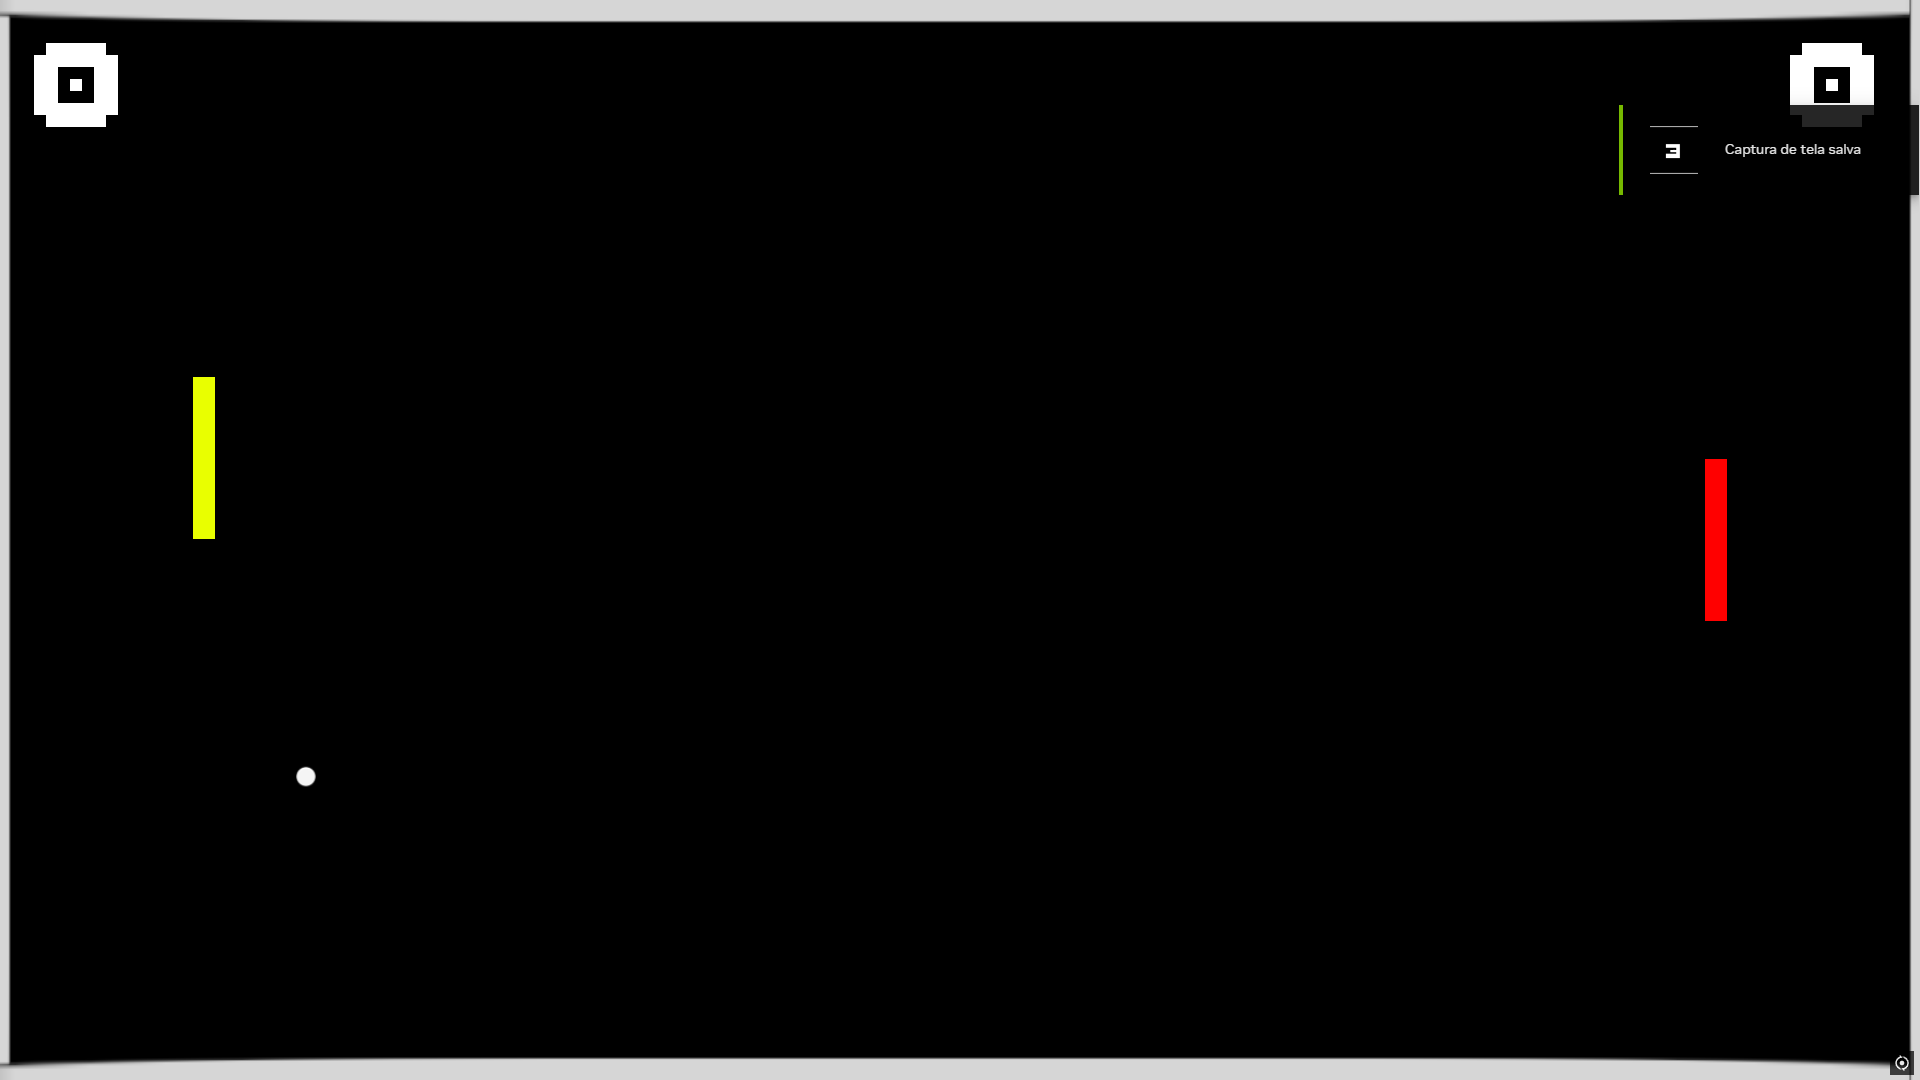
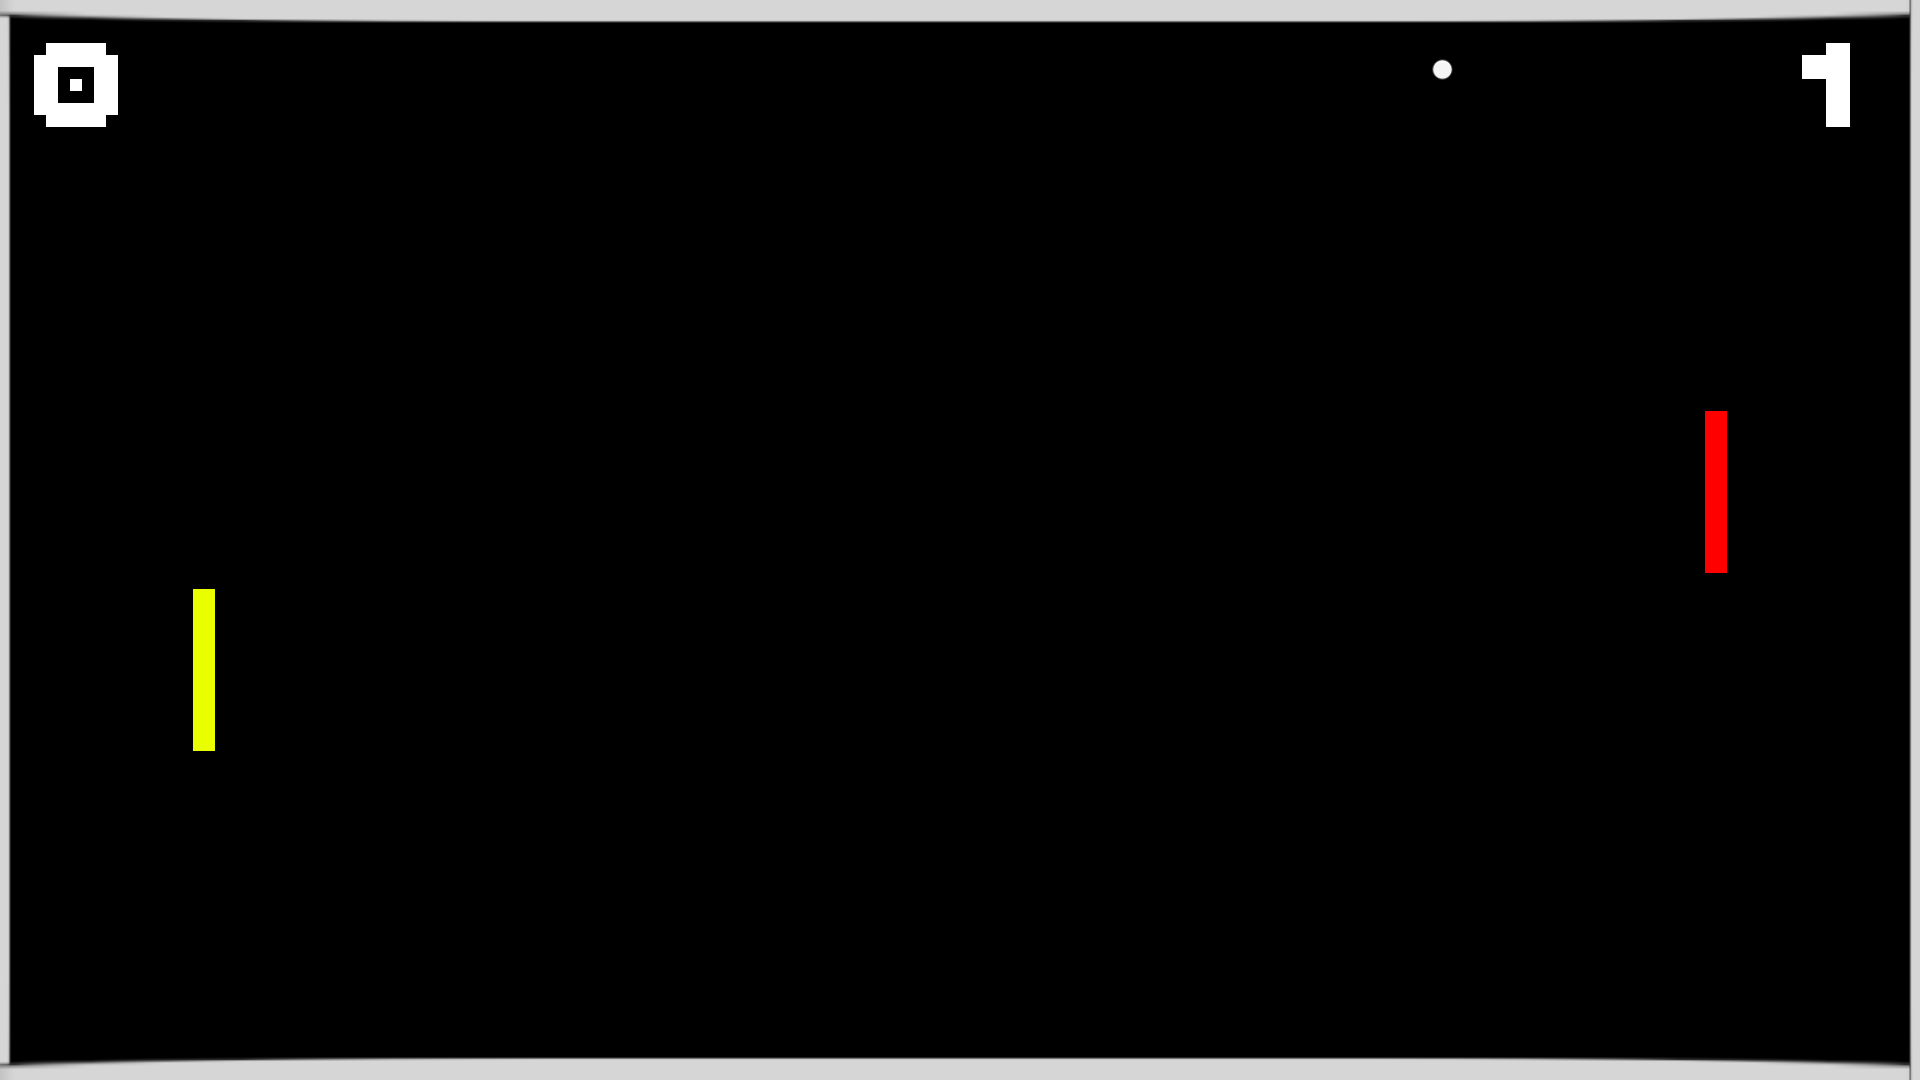
Final 2PONG edits

diff --git a/Games/pong.html b/Games/pong.html
@@ -150,7 +150,7 @@
                     </div>
 
                     <div class="showcase-caption">
-                        Gameplay and Paddle Movement
+                        Gameplay
                     </div>
 
                 </div>
@@ -274,67 +274,7 @@
             <div class="media-track">
 
                 <!-- SLIDE 01 -->
-                <div class="media-slide">
-
-                    <img
-                        src="../Assets/images/2PONG/MidGameSS1.png"
-                        alt="2PONG gameplay"
-                    >
-
-                    <div class="media-caption">
-                        Gameplay 1
-                    </div>
-
-                </div>
-
-
-                <!-- SLIDE 02 -->
-                <div class="media-slide">
-
-                    <img
-                        src="../Assets/images/2PONG/GameStartSS.png"
-                        alt="2PONG game start screen"
-                    >
-
-                    <div class="media-caption">
-                        Game Start Screen
-                    </div>
-
-                </div>
-
-
-                <!-- SLIDE 03 -->
-                <div class="media-slide">
-
-                    <img
-                        src="../Assets/images/2PONG/MenuSS.png"
-                        alt="2PONG menu screen"
-                    >
-
-                    <div class="media-caption">
-                        Main Menu
-                    </div>
-
-                </div>
-
-
-                <!-- SLIDE 04 -->
-                <div class="media-slide">
-
-                    <img
-                        src="../Assets/images/2PONG/GameOverSS.png"
-                        alt="2PONG game over screen"
-                    >
-
-                    <div class="media-caption">
-                        Game Over Screen
-                    </div>
-
-                </div>
-
-
-                <!-- SLIDE 05 -->
-                <div class="media-slide">
+                 <div class="media-slide">
 
                     <img
                         src="../Assets/images/2PONG/ClearMenuSS.png"
@@ -348,23 +288,50 @@
                 </div>
 
 
-                <!-- SLIDE 06 -->
-                <div class="media-slide">
+                <!-- SLIDE 02 -->
+                 <div class="media-slide">
 
                     <img
-                        src="../Assets/images/2PONG/WinnerSS.png"
-                        alt="2PONG winner screen"
+                        src="../Assets/images/2PONG/MenuSS.png"
+                        alt="2PONG menu screen"
                     >
 
                     <div class="media-caption">
-                        Winner Screen
+                        Filled Menu Screen
                     </div>
 
                 </div>
 
+                <!-- SLIDE 03 -->
+                 <div class="media-slide">
 
-                <!-- SLIDE 07 -->
-                <div class="media-slide">
+                    <img
+                        src="../Assets/images/2PONG/GameStartSS.png"
+                        alt="2PONG game start screen"
+                    >
+
+                    <div class="media-caption">
+                        Game Start Screen
+                    </div>
+
+                </div>
+
+                <!-- SLIDE 04 -->
+                 <div class="media-slide">
+
+                    <img
+                        src="../Assets/images/2PONG/MidGameSS1.png"
+                        alt="2PONG gameplay"
+                    >
+
+                    <div class="media-caption">
+                        Gameplay 1
+                    </div>
+
+                </div>
+
+                <!-- SLIDE 05 -->
+                  <div class="media-slide">
 
                     <img
                         src="../Assets/images/2PONG/MidGameSS2.png"
@@ -376,6 +343,35 @@
                     </div>
 
                 </div>
+                
+                <!-- SLIDE 06 -->
+                 <div class="media-slide">
+
+                    <img
+                        src="../Assets/images/2PONG/GameOverSS.png"
+                        alt="2PONG game over screen"
+                    >
+
+                    <div class="media-caption">
+                        Game Over Screen
+                    </div>
+
+                </div>
+                
+                <!-- SLIDE 07 -->
+                 <div class="media-slide">
+
+                    <img
+                        src="../Assets/images/2PONG/WinnerSS.png"
+                        alt="2PONG winner screen"
+                    >
+
+                    <div class="media-caption">
+                        Winner Screen
+                    </div>
+
+                </div>
+               
 
             </div>
 
